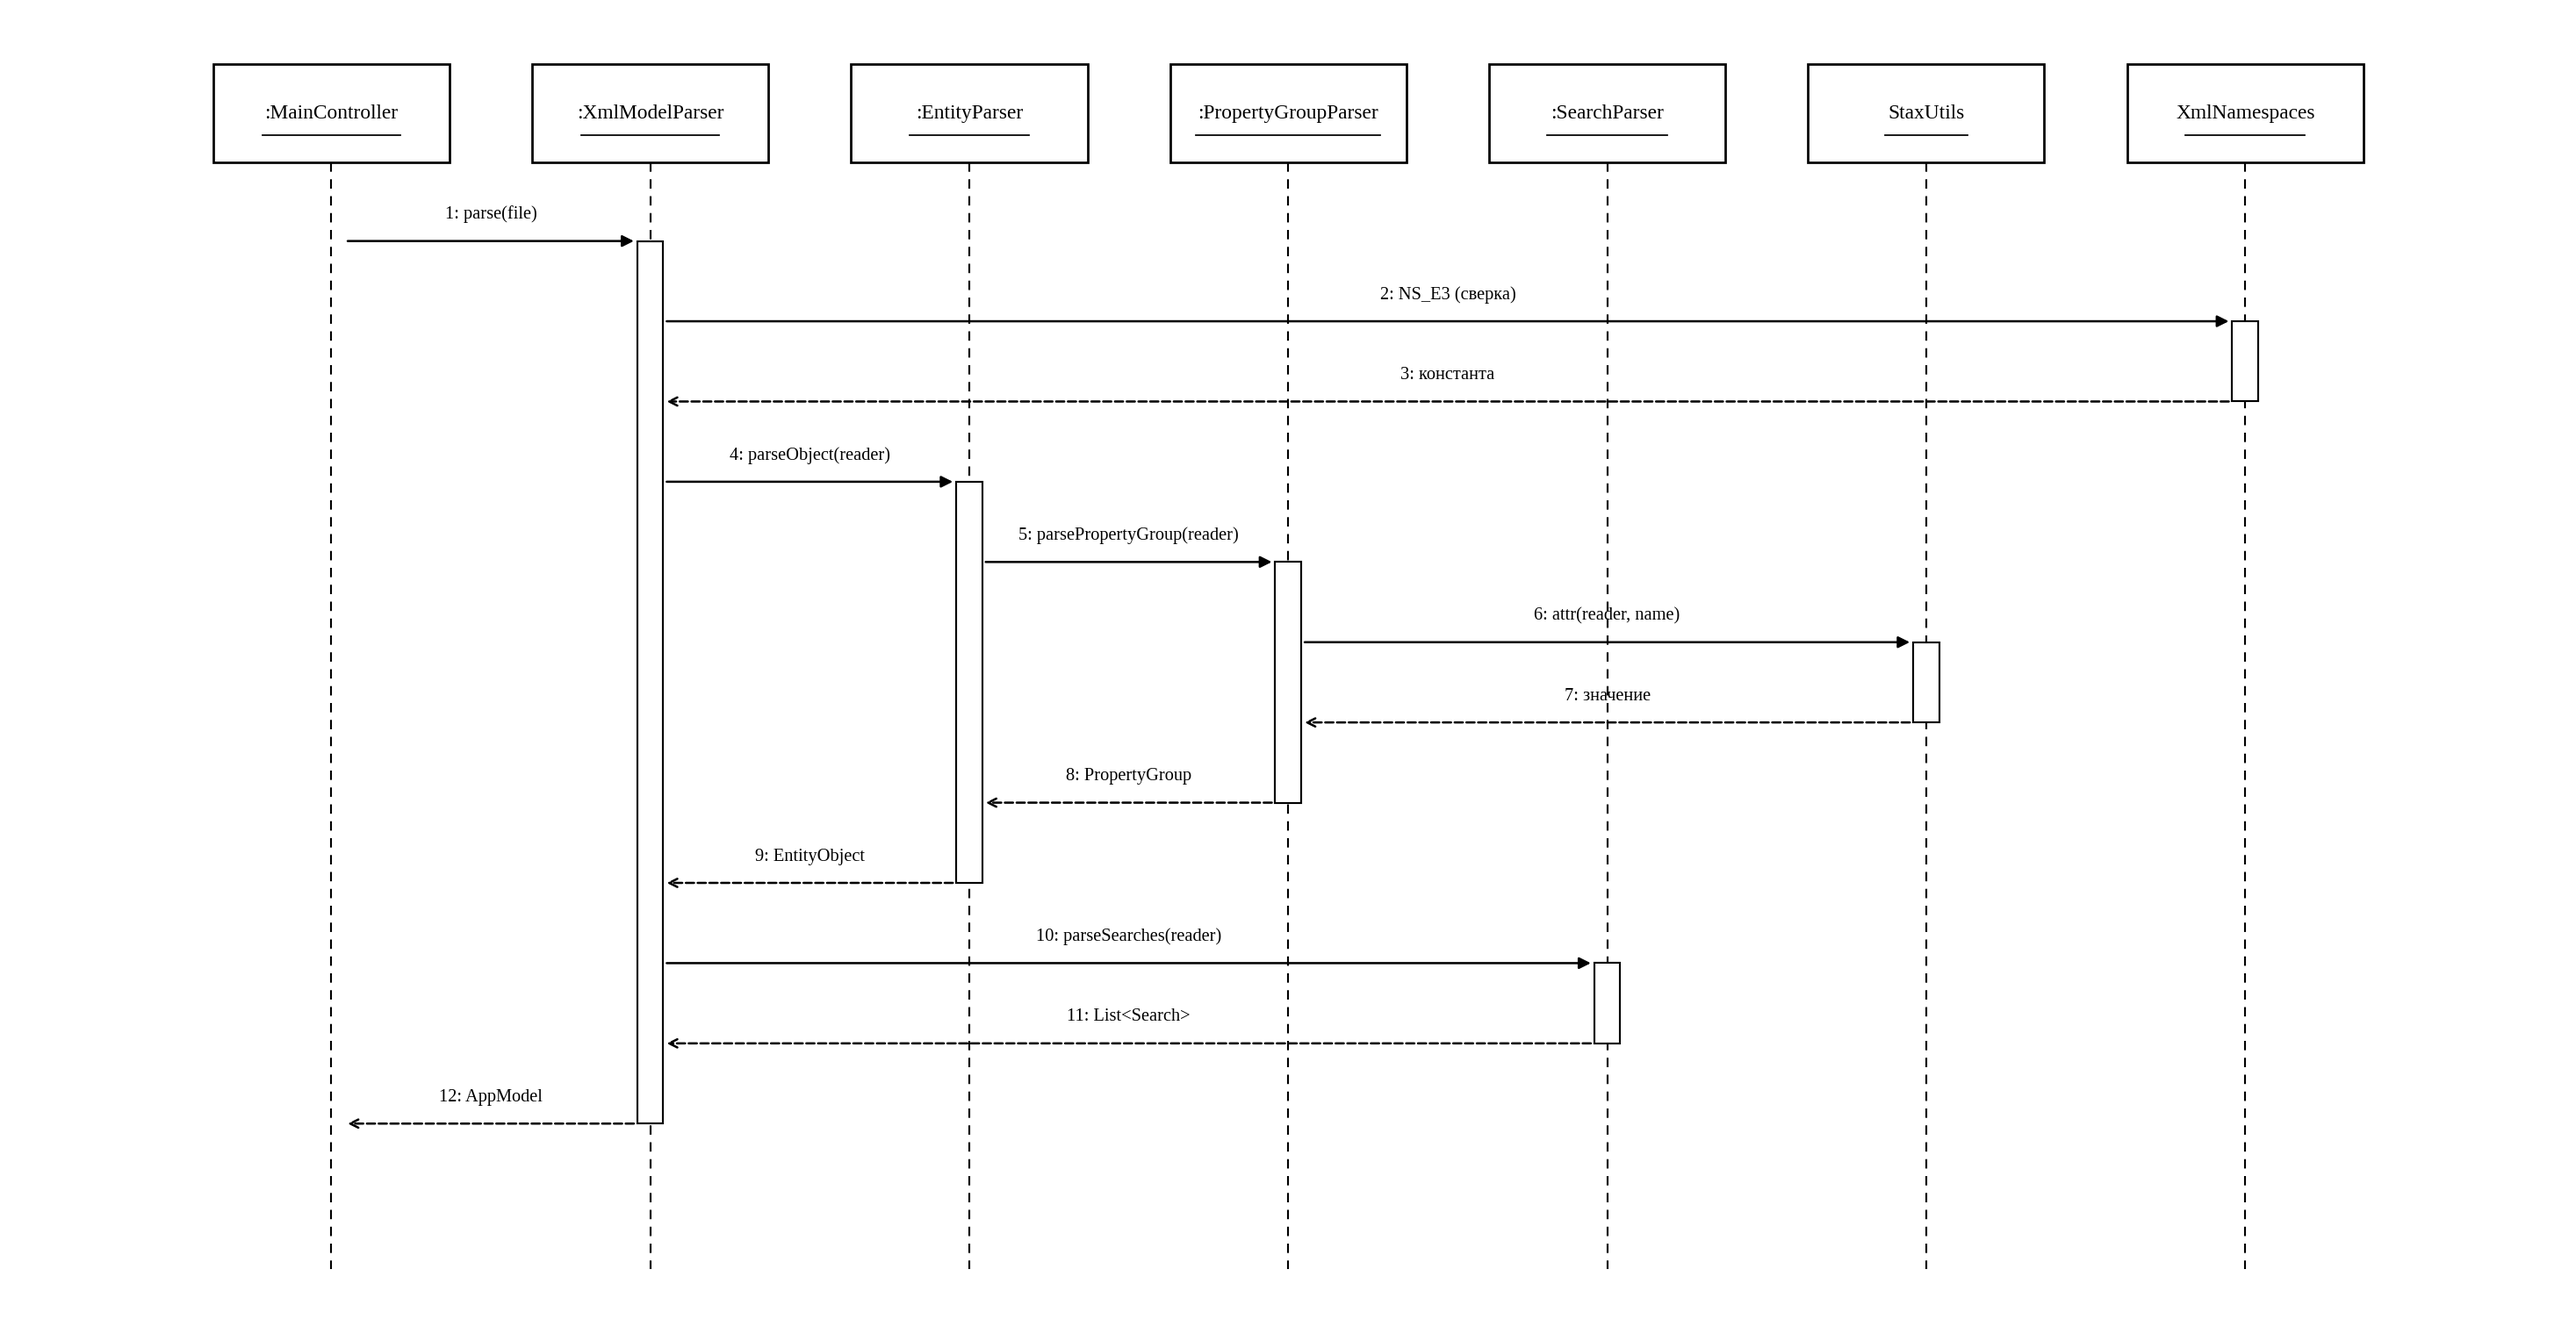
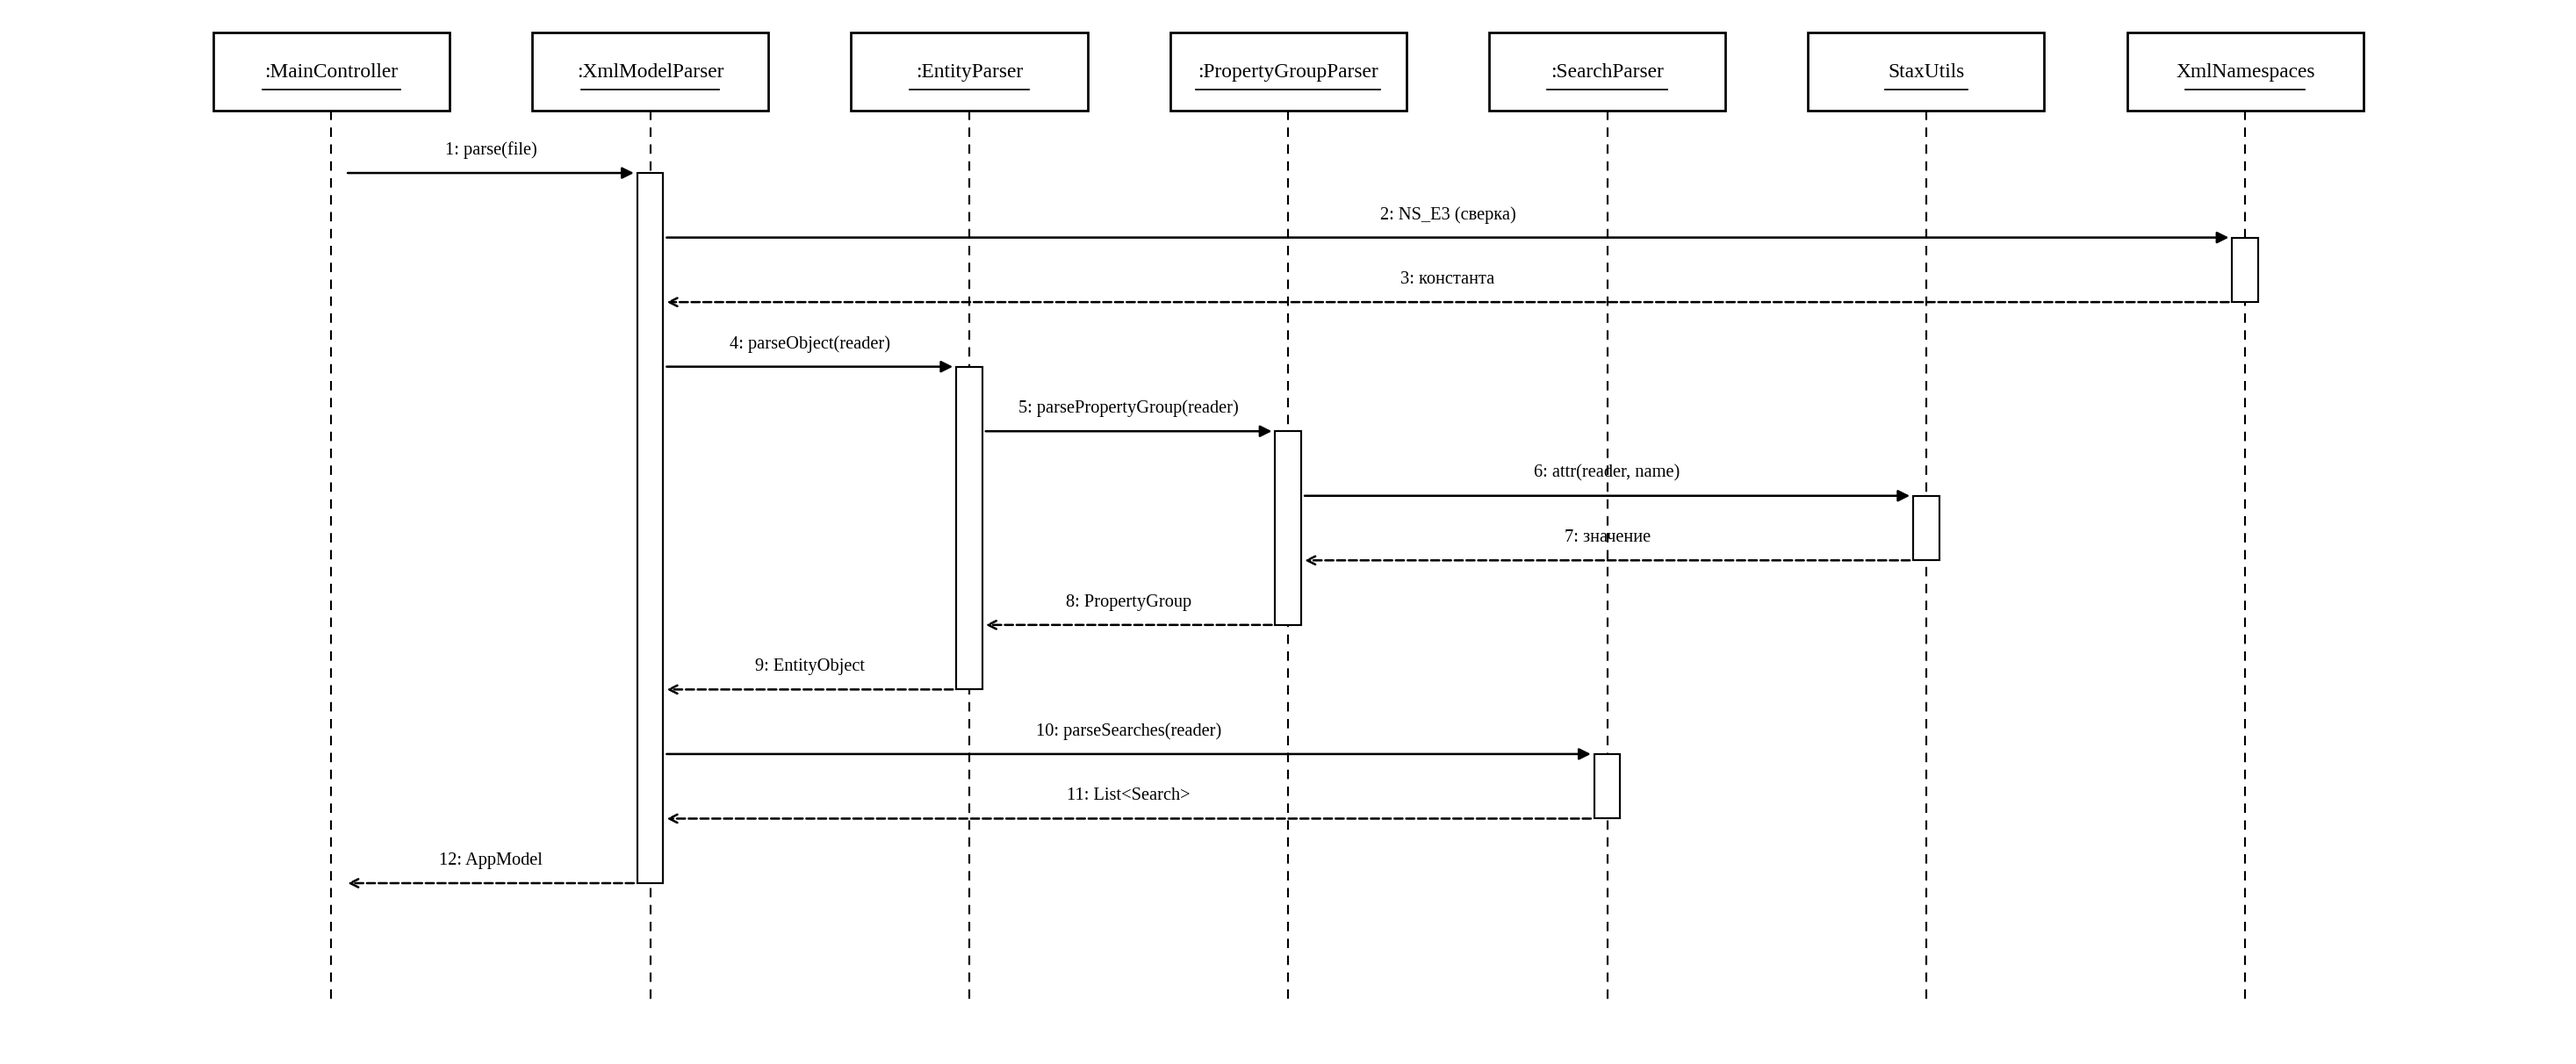
ДПС плотнее + Константайн крупнее и компактнее
- ДПС: fig_h = max(4.5, n*0.55+2) — меньше пустых мест внизу
- Константайн: X сжат на 38%, шрифт couples 8→11, текст модулей 10.5→12,
  couple_offset 0.5→0.85 (стрелки couples виднее), кружочки крупнее

https://claude.ai/code/session_01WPz1fK92QEsvtXEfVLPRQp

diff --git a/diagrams/gen_constantine.py b/diagrams/gen_constantine.py
@@ -23,74 +23,74 @@ FONT = "Liberation Serif"
 # (x, y, w, h, kind) — kind ∈ 'module', 'library', 'data', 'subsystem'
 modules = {
     # Уровень 1
-    "App": (18, 16, 3.2, 1.0, "module"),
+    "App":                   (11.16, 16, 3.2, 1.0, "module"),
     # Уровень 2
-    "MainController": (18, 13.5, 3.6, 1.0, "module"),
+    "MainController":        (11.16, 13.5, 3.6, 1.0, "module"),
     # Уровень 3: фасады
-    "XmlModelParser": (3.5, 11, 3.8, 1.0, "module"),
-    "TestConfig":     (10, 11, 3.0, 1.0, "data"),
-    "TestGenerator":  (16, 11, 3.6, 1.0, "module"),
-    "TestRunner":     (24, 11, 3.0, 1.0, "module"),
-    "ReportDao":      (31, 11, 3.0, 1.0, "module"),
+    "XmlModelParser":        (2.17, 11, 3.8, 1.0, "module"),
+    "TestConfig":            (6.20, 11, 3.0, 1.0, "data"),
+    "TestGenerator":         (9.92, 11, 3.6, 1.0, "module"),
+    "TestRunner":            (14.88, 11, 3.0, 1.0, "module"),
+    "ReportDao":             (19.22, 11, 3.0, 1.0, "module"),
     # Уровень 4: исполнители
-    "EntityParser":        (2,    8.5, 3.4, 1.0, "module"),
-    "SearchParser":        (6.5,  8.5, 3.4, 1.0, "module"),
-    "PageObjectWriter":    (13.5, 8.5, 3.6, 1.0, "module"),
-    "TestClassWriter":     (18,   8.5, 3.6, 1.0, "module"),
-    "EntityClassifier":    (10,   8.5, 3.4, 1.0, "library"),
-    "TestDataFactory":     (22.5, 8.5, 3.6, 1.0, "library"),
-    "RunReportWriter":     (24, 8.5, 3.6, 1.0, "module"),  # справа от Runner
-    "DatabaseConnection":  (28, 8.5, 3.4, 1.0, "module"),
-    "SchemaInitializer":   (32, 8.5, 3.4, 1.0, "module"),
-    "TestRunDao":          (35.5, 8.5, 3.0, 1.0, "module"),
-    "TestCaseDao":         (39, 8.5, 3.0, 1.0, "module"),
+    "EntityParser":          (1.24, 8.5, 3.4, 1.0, "module"),
+    "SearchParser":          (4.03, 8.5, 3.4, 1.0, "module"),
+    "PageObjectWriter":      (8.37, 8.5, 3.6, 1.0, "module"),
+    "TestClassWriter":       (11.16, 8.5, 3.6, 1.0, "module"),
+    "EntityClassifier":      (6.20, 8.5, 3.4, 1.0, "library"),
+    "TestDataFactory":       (13.95, 8.5, 3.6, 1.0, "library"),
+    "RunReportWriter":       (14.88, 8.5, 3.6, 1.0, "module"),  # справа от Runner
+    "DatabaseConnection":    (17.36, 8.5, 3.4, 1.0, "module"),
+    "SchemaInitializer":     (19.84, 8.5, 3.4, 1.0, "module"),
+    "TestRunDao":            (22.01, 8.5, 3.0, 1.0, "module"),
+    "TestCaseDao":           (24.18, 8.5, 3.0, 1.0, "module"),
     # Уровень 5
-    "PropertyGroupParser": (2, 6, 4.2, 1.0, "module"),
+    "PropertyGroupParser":   (1.24, 6, 4.2, 1.0, "module"),
     # Уровень 6: библиотеки
-    "StaxUtils":      (3,   3.5, 2.8, 1.0, "library"),
-    "XmlNamespaces":  (6.5, 3.5, 3.2, 1.0, "library"),
-    "JavaFileWriter": (13,  3.5, 3.4, 1.0, "library"),
-    "Transliterator": (18,  3.5, 3.4, 1.0, "library"),
+    "StaxUtils":             (1.86, 3.5, 2.8, 1.0, "library"),
+    "XmlNamespaces":         (4.03, 3.5, 3.2, 1.0, "library"),
+    "JavaFileWriter":        (8.06, 3.5, 3.4, 1.0, "library"),
+    "Transliterator":        (11.16, 3.5, 3.4, 1.0, "library"),
     "ParserException":(7,   1, 3.4, 1.0, "library"),
     # Уровень 7: артефакты
-    "autotestgen.db":    (29.5, 1, 3.0, 1.0, "data"),
-    "generated-tests/":  (21, 1, 3.5, 1.0, "data"),
+    "autotestgen.db":        (18.29, 1, 3.0, 1.0, "data"),
+    "generated-tests/":      (13.02, 1, 3.5, 1.0, "data"),
 }
 
 # Перерасчёт позиций — расширить, переразложить
 # Делаем 7 уровней по Y, X разносим по нужным колонкам
 modules = {
-    "App":                  (20.0, 15.5, 3.0, 0.9, "module"),
-    "MainController":       (20.0, 13.0, 3.6, 0.9, "module"),
+    "App":                   (12.40, 15.5, 3.0, 0.9, "module"),
+    "MainController":        (12.40, 13.0, 3.6, 0.9, "module"),
     # Уровень 3
-    "XmlModelParser":       (3.5,  10.5, 4.0, 0.9, "module"),
-    "TestConfig":           (10.5, 10.5, 3.2, 0.9, "data"),
-    "TestGenerator":        (16.5, 10.5, 3.6, 0.9, "module"),
-    "TestRunner":           (24.5, 10.5, 3.2, 0.9, "module"),
-    "ReportDao":            (32.0, 10.5, 3.0, 0.9, "module"),
+    "XmlModelParser":        (2.17, 10.5, 4.0, 0.9, "module"),
+    "TestConfig":            (6.51, 10.5, 3.2, 0.9, "data"),
+    "TestGenerator":         (10.23, 10.5, 3.6, 0.9, "module"),
+    "TestRunner":            (15.19, 10.5, 3.2, 0.9, "module"),
+    "ReportDao":             (19.84, 10.5, 3.0, 0.9, "module"),
     # Уровень 4
-    "EntityParser":         (3.0,   7.5, 3.4, 0.9, "module"),
-    "SearchParser":         (7.5,   7.5, 3.4, 0.9, "module"),
-    "EntityClassifier":     (12.0,  7.5, 3.4, 0.9, "library"),
-    "PageObjectWriter":     (15.8,  7.5, 3.8, 0.9, "module"),
-    "TestClassWriter":      (20.2,  7.5, 3.8, 0.9, "module"),
-    "TestDataFactory":      (24.5,  7.5, 3.4, 0.9, "library"),
-    "RunReportWriter":      (28.5,  7.5, 3.6, 0.9, "module"),
-    "DatabaseConnection":   (33.0,  7.5, 3.8, 0.9, "module"),
-    "SchemaInitializer":    (37.0,  7.5, 3.6, 0.9, "module"),
-    "TestRunDao":           (40.5,  7.5, 3.0, 0.9, "module"),
-    "TestCaseDao":          (43.5,  7.5, 3.0, 0.9, "module"),
+    "EntityParser":          (1.86, 7.5, 3.4, 0.9, "module"),
+    "SearchParser":          (4.65, 7.5, 3.4, 0.9, "module"),
+    "EntityClassifier":      (7.44, 7.5, 3.4, 0.9, "library"),
+    "PageObjectWriter":      (9.80, 7.5, 3.8, 0.9, "module"),
+    "TestClassWriter":       (12.52, 7.5, 3.8, 0.9, "module"),
+    "TestDataFactory":       (15.19, 7.5, 3.4, 0.9, "library"),
+    "RunReportWriter":       (17.67, 7.5, 3.6, 0.9, "module"),
+    "DatabaseConnection":    (20.46, 7.5, 3.8, 0.9, "module"),
+    "SchemaInitializer":     (22.94, 7.5, 3.6, 0.9, "module"),
+    "TestRunDao":            (25.11, 7.5, 3.0, 0.9, "module"),
+    "TestCaseDao":           (26.97, 7.5, 3.0, 0.9, "module"),
     # Уровень 5
-    "PropertyGroupParser":  (3.0,   5.0, 4.4, 0.9, "module"),
+    "PropertyGroupParser":   (1.86, 5.0, 4.4, 0.9, "module"),
     # Уровень 6: библиотеки
-    "StaxUtils":            (3.0,   2.5, 3.0, 0.9, "library"),
-    "XmlNamespaces":        (6.5,   2.5, 3.4, 0.9, "library"),
-    "JavaFileWriter":       (15.5,  2.5, 3.6, 0.9, "library"),
-    "Transliterator":       (20.5,  2.5, 3.6, 0.9, "library"),
-    "ParserException":      (10.5,  2.5, 3.4, 0.9, "library"),
+    "StaxUtils":             (1.86, 2.5, 3.0, 0.9, "library"),
+    "XmlNamespaces":         (4.03, 2.5, 3.4, 0.9, "library"),
+    "JavaFileWriter":        (9.61, 2.5, 3.6, 0.9, "library"),
+    "Transliterator":        (12.71, 2.5, 3.6, 0.9, "library"),
+    "ParserException":       (6.51, 2.5, 3.4, 0.9, "library"),
     # Уровень 7
-    "generated-tests/":     (25.0,  0.3, 3.6, 0.9, "data"),
-    "autotestgen.db":       (33.0,  0.3, 3.4, 0.9, "data"),
+    "generated-tests/":      (15.50, 0.3, 3.6, 0.9, "data"),
+    "autotestgen.db":        (20.46, 0.3, 3.4, 0.9, "data"),
 }
 
 # ============== ВЫЗОВЫ С COUPLES ==============
@@ -143,8 +143,8 @@ calls = [
 ]
 
 # ============== РЕНДЕР ==============
-fig, ax = plt.subplots(figsize=(22, 16), dpi=120)
-ax.set_xlim(0, 47)
+fig, ax = plt.subplots(figsize=(16, 16), dpi=120)
+ax.set_xlim(0, 30)
 ax.set_ylim(-1, 17)
 ax.axis('off')
 
@@ -163,7 +163,7 @@ for name, (cx, cy, w, h, kind) in modules.items():
         ax.add_patch(Rectangle((cx - w/2, cy - h/2), w, h,
                                linewidth=1.2, edgecolor='black', facecolor='white'))
     # текст
-    ax.text(cx, cy, name, ha='center', va='center', fontname=FONT, fontsize=10.5)
+    ax.text(cx, cy, name, ha='center', va='center', fontname=FONT, fontsize=12)
 
 def edge_point(name, dx, dy):
     """Точка на границе модуля в сторону (dx, dy)"""
@@ -196,8 +196,7 @@ for from_name, to_name, special, data_d, data_u, ctrl_d in calls:
     # Маркер особого вызова на середине линии
     midx, midy = (fpt[0] + tpt[0])/2, (fpt[1] + tpt[1])/2
     if special == "1":
-        ax.text(midx + 0.3, midy, "1", fontname=FONT, fontsize=11,
-                ha='left', va='center', fontweight='bold')
+        ax.text(midx + 0.3, midy, "1", fontname=FONT, fontsize=14, ha='left', va='center', fontweight='bold')
     elif special == "cycle":
         ax.add_patch(Circle((midx + 0.4, midy), 0.18,
                             linewidth=1.0, edgecolor='black', facecolor='white'))
@@ -207,7 +206,7 @@ for from_name, to_name, special, data_d, data_u, ctrl_d in calls:
     import math
     length = max(math.hypot(dx, dy), 0.001)
     nx, ny = -dy / length, dx / length  # нормаль слева
-    couple_offset = 0.5
+    couple_offset = 0.85
 
     def couple_arrow(name, side, going_down, kind):
         """side=+1 справа, -1 слева; going_down=True если вниз; kind='data'/'control'"""
@@ -226,11 +225,11 @@ for from_name, to_name, special, data_d, data_u, ctrl_d in calls:
         ax.plot([start[0], end[0]], [start[1], end[1]],
                 color='black', lw=0.9, zorder=2)
         face = 'white' if kind == 'data' else 'black'
-        ax.add_patch(Circle(end, 0.085, linewidth=0.9,
+        ax.add_patch(Circle(end, 0.13, linewidth=0.9,
                             edgecolor='black', facecolor=face, zorder=3))
         # подпись
         ax.text(end[0] + ox * 0.5, end[1] + oy * 0.5, name,
-                ha='center', va='center', fontname=FONT, fontsize=8)
+                ha='center', va='center', fontname=FONT, fontsize=11)
 
     # Раскладываем couples
     side_left, side_right = -1, +1

diff --git a/diagrams/gen_seq.py b/diagrams/gen_seq.py
@@ -23,7 +23,7 @@ def render(filename, objects, messages):
     n = len(objects)
     obj_spacing = 2.7
     fig_w = max(11, n * obj_spacing + 2)
-    fig_h = max(6, len(messages) * 0.65 + 3)
+    fig_h = max(4.5, len(messages) * 0.55 + 2)
 
     fig, ax = plt.subplots(figsize=(fig_w, fig_h), dpi=140)
     canvas_w = (n + 1) * obj_spacing
@@ -35,9 +35,9 @@ def render(filename, objects, messages):
 
     box_w = 2.0
     box_h = 0.75
-    box_top_y = 9.6
+    box_top_y = 9.8
     box_bot_y = box_top_y - box_h
-    life_bottom = 0.4
+    life_bottom = 0.5
 
     msg_top_y = box_bot_y - 0.6
     msg_bottom_y = life_bottom + 0.5
